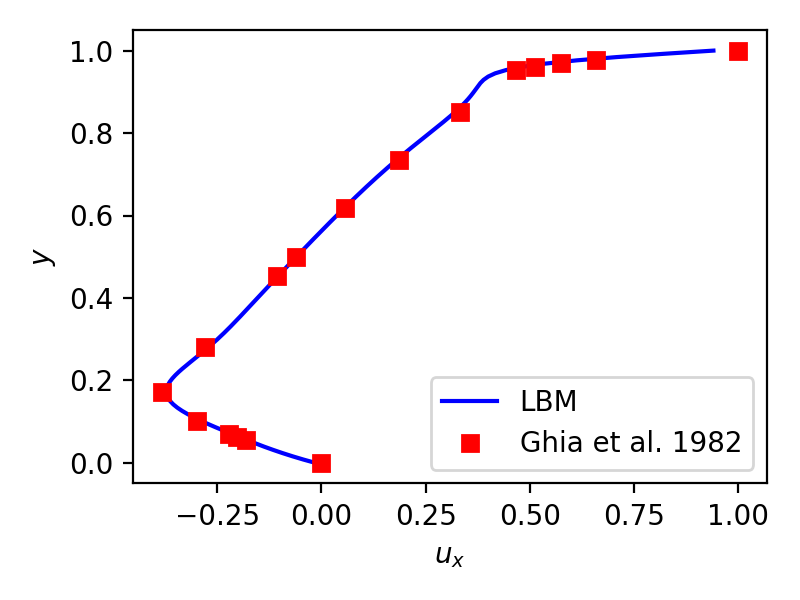
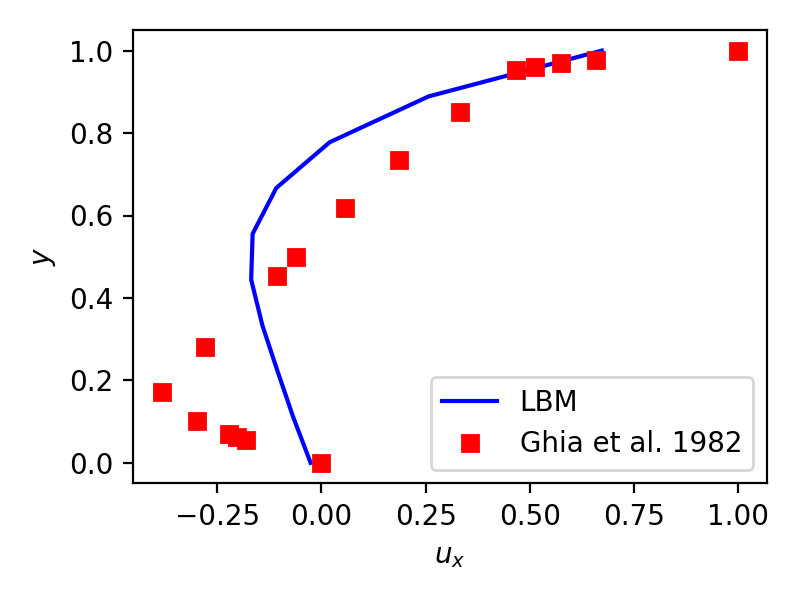
Work in progress on FMLB 19 mei

diff --git a/Working code/ldclbm_mrt.py b/Working code/ldclbm_mrt.py
@@ -13,7 +13,7 @@ path_name = "/Users/Jesper/Documents/MEP/Code/Working code/FiguresLDC/"
 
 steps = 50000
 umax = 0.1
-Nx = 128  # by convention, dx = dy = dt = 1.0 (lattice units)
+Nx = 10  # by convention, dx = dy = dt = 1.0 (lattice units)
 Ny = Nx
 nu = 0.0128
 tau = 3.0 * nu + 0.5
@@ -31,7 +31,7 @@ e = np.array([[0, 0], [1, 0], [0, 1], [-1, 0], [0, -1], [1, 1], [-1, 1], [-1, -1
 Pr = 0.021
 
 # Forces
-g = 9.81 * np.array([0, -1])
+g = 9.81 * np.array([0, -1]) * 0
 
 # Material
 cp = 381
@@ -48,7 +48,7 @@ Tm = 302.8          # Melting point (K)
 T0 = 302.67          # Starting temperature (K)
 TH = 305           # Hot wall temperature (K)
 TC = 301.3         # Cold wall temperature (K)
-epsilon = 0.05 * (TH - Tm) # 0.05 * (T_H - T_C)  # Width mushy zone (K)
+epsilon = 0.05 * (TH - Tm)  # 0.05 * (T_H - T_C)  # Width mushy zone (K)
 
 ##
 alpha = Pr / nu
@@ -99,10 +99,24 @@ def f_eq(rho, vel):
     return feq
 
 
-# @njit
+@njit
+def alpha_m(r, u, du, f):
+    aplha_m = np.zeros((Nx, Ny, 9))
+    alpha_m[:, :, 0] = r
+    alpha_m[:, :, 1] = r * u[:, :, 0] - f[:, :, 0] / 2
+    alpha_m[:, :, 2] = r * u[:, :, 1] - f[:, :, 1] / 2
+    alpha_m[:, :, 3] = 3 * r * u[:, :, 0] * u[:, :, 0] + r * (-6 * nu - 1) * du[:, :, 0] - 3
+    alpha_m[:, :, 4] =
+    alpha_m[:, :, 5] =
+    alpha_m[:, :, 6] =
+    alpha_m[:, :, 7] =
+    alpha_m[:, :, 8] =
+
+
 def initialize(g):
     rho = np.ones((Nx, Ny))
     vel = np.zeros((Nx, Ny, 2))
+    dvel = np.zeros((Nx, Ny, 2))
 
     f_new = f_eq(rho, vel)
     f_old = f_new.copy()
@@ -112,7 +126,7 @@ def initialize(g):
 
     T = np.zeros((Nx+2, Ny+2))
 
-    return vel, rho, f_new, f_old, Si, F, T
+    return vel, dvel, rho, f_new, f_old, Si, F, T
 
 
 @njit
@@ -144,37 +158,46 @@ def forcing(vel, g, Si, F, T):
     return Si, F
 
 
-@njit
-def temperature(T_old):
-    T_new = np.zeros((Nx+2, Ny+2))
-    for j in range(1, Ny+1):
-        for i in range(1, Nx+1):
-            while True:
-                n_iter = 1
-                while True:
-                    T_new[i, j] = T_old[i, j] * (1 - 6 * alpha) - 
+# @njit
+# def temperature(T_old):
+#     T_new = np.zeros((Nx+2, Ny+2))
+#     for j in range(1, Ny+1):
+#         for i in range(1, Nx+1):
+#             while True:
+#                 n_iter = 1
+#                 while True:
+#                     T_new[i, j] = T_old[i, j] * (1 - 6 * alpha) -
 
 
 
 @njit
-def moment_update(rho, vel, f_old, f_new, F):
+def moment_update(rho, vel, dvel, f_old, f_new, F):
     rho[:, :] = np.sum(f_new, axis=2)
     vel[:, :, 0] = (f_new[:, :, 1] + f_new[:, :, 5] + f_new[:, :, 8] - (f_new[:, :, 3] + f_new[:, :, 6] + f_new[:, :, 7])) / rho + F[:, :, 0] / 2
     vel[:, :, 1] = (f_new[:, :, 2] + f_new[:, :, 5] + f_new[:, :, 6] - (f_new[:, :, 4] + f_new[:, :, 7] + f_new[:, :, 8])) / rho + F[:, :, 1] / 2
 
     f_old = f_new
 
-    return rho, vel, f_old
+    # Velocity gradients
+    dvel[1:Nx-1, :, 0] = (vel[2:, :, 0] - vel[:Nx-2, :, 0]) / 2
+    dvel[0, :, 0] = (-3 * vel[0, :, 0] + 4 * vel[1, :, 0] - vel[2, :, 0]) / 2
+    dvel[Nx-1, :, 0] = (3 * vel[Nx-1, :, 0] - 4 * vel[Nx-2, :, 0] + vel[Nx-3, :, 0]) / 2
+    dvel[:, 1:Ny-1, 0] = (vel[:, 2:, 0] - vel[:, :Nx-2, 0]) / 2
+    dvel[:, 0, 0] = (-3 * vel[:, 0, 0] + 4 * vel[:, 1, 0] - vel[:, 2, 0]) / 2
+    dvel[:, Nx-1, 0] = (3 * vel[:, Nx-1, 0] - 4 * vel[:, Nx-2, 0] + vel[:, Nx-3, 0]) / 2
+
+    return rho, vel, dvel, f_old
 
 
 def solve():
-    vel, rho, f, f_old, Si, F, T = initialize(g)
+    vel, dvel, rho, f, f_old, Si, F, T = initialize(g)
 
     for i in range(steps):
         f_col = collision(rho, vel, f_old, Si)
         f_str = streaming(rho, f_old, f_col)
-        rho, vel, f_old = moment_update(rho, vel, f_old, f_str, F)
-        Si, F = forcing(vel, g, Si, F, T)
+        rho, vel, dvel, f_old = moment_update(rho, vel, dvel, f_old, f_str, F)
+
+        # Si, F = forcing(vel, g, Si, F, T)
 
         if i % 10000 == 0:
             print(i)
